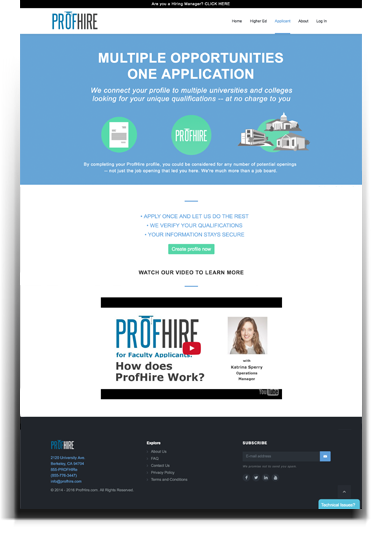
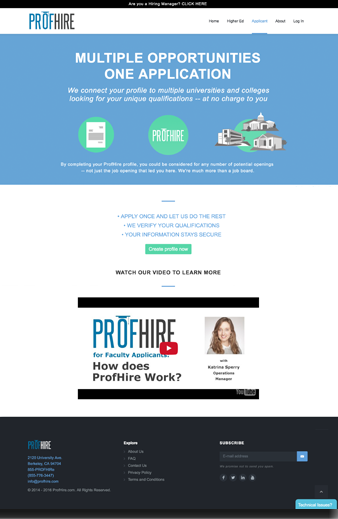
drop shadow

diff --git a/_sass/base/_variables.scss b/_sass/base/_variables.scss
@@ -26,5 +26,5 @@ $feature-image-text-color: #fff;
 $feature-image-size: cover; // options include "cover", "contain", "auto"
 
 // Header description box
-$header-desc-background-color:linear-gradient(top, rgba(39,102,133,1) 0%, rgba(216,225,231,1) 78%, rgba(21,110,161,1) 93%, rgba(224,239,249,1) 100%);
+$header-desc-background-color:F98752;
 $header-desc-text-color: #b77625;

diff --git a/_sass/layouts/_index.scss b/_sass/layouts/_index.scss
@@ -43,6 +43,7 @@
   background-size: $feature-image-size;
   border-bottom: 1px solid $border-color;
   li {
+    box-shadow: 5px 5px 20px #888888;
     width: 30%;
     margin-right:0.5%;
     margin-left:0.5%;
